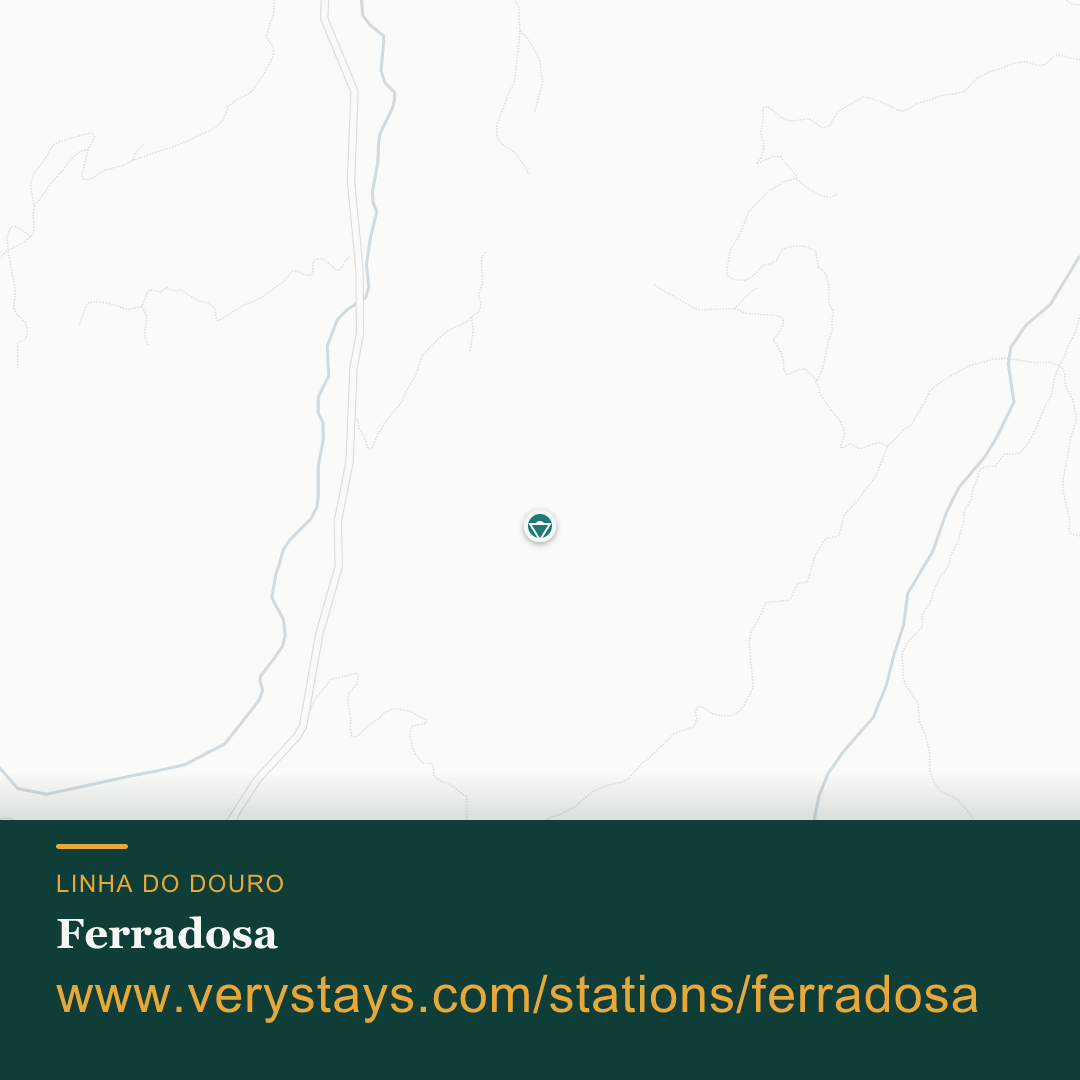
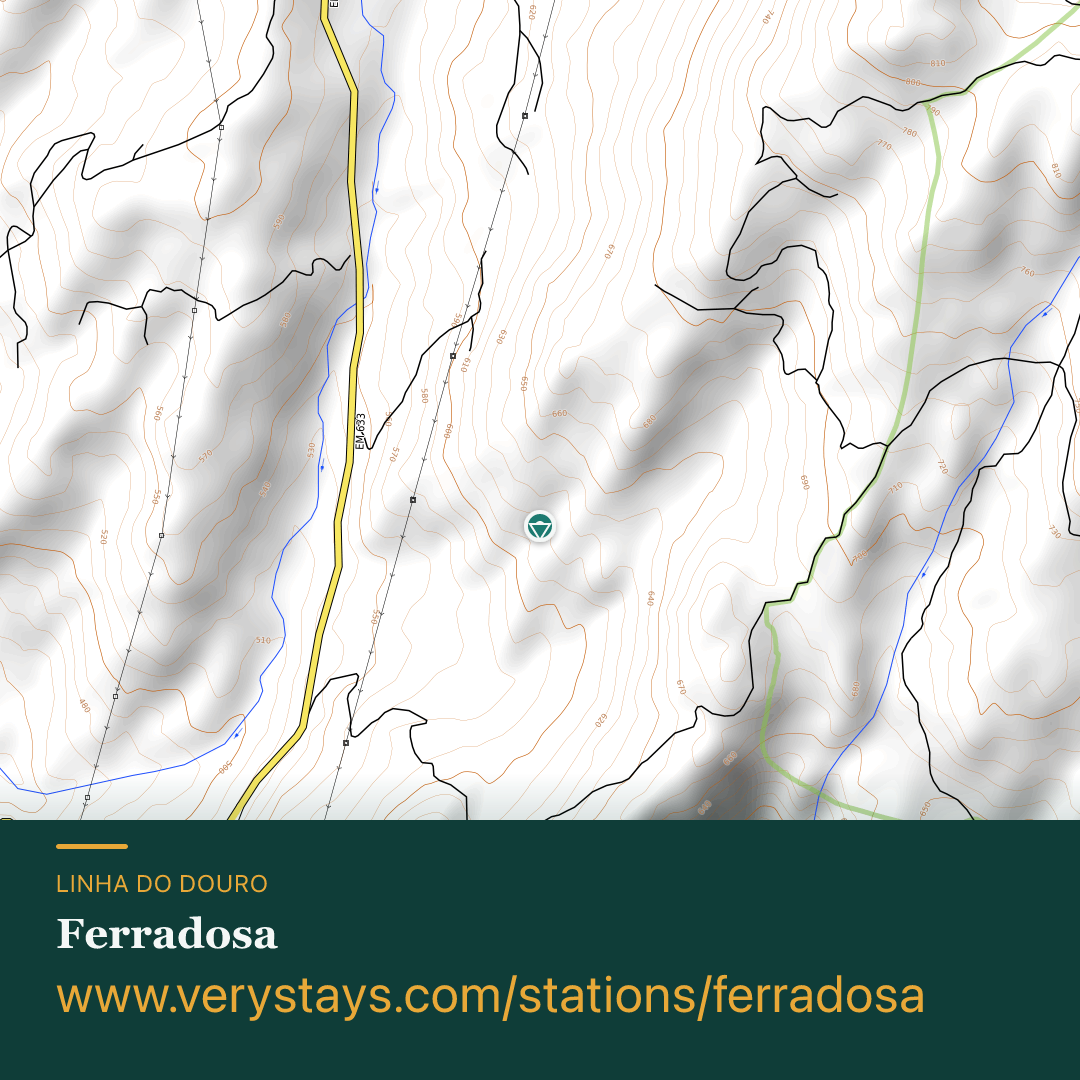
station images

diff --git a/src/data/stationImages.ts b/src/data/stationImages.ts
@@ -179,7 +179,7 @@ export const stationImages: Record<string, string> = {
   "Irivo": "https://images.pexels.com/photos/31797342/pexels-photo-31797342.jpeg?auto=compress&cs=tinysrgb&h=650&w=940",
   "ISMAI": "https://images.pexels.com/photos/29546156/pexels-photo-29546156.jpeg?auto=compress&cs=tinysrgb&h=650&w=940",
   "Jerez Airport (XRY)": "https://images.pexels.com/photos/13513107/pexels-photo-13513107.jpeg?auto=compress&cs=tinysrgb&h=650&w=940",
-  "Juncal": "https://images.pexels.com/photos/22047476/pexels-photo-22047476.jpeg?auto=compress&cs=tinysrgb&h=650&w=940",
+  "Juncal": "https://images.pexels.com/photos/26977308/pexels-photo-26977308.jpeg?auto=compress&cs=tinysrgb&h=650&w=940",
   "Lagos": "https://upload.wikimedia.org/wikipedia/commons/thumb/6/6a/2017-09-28_Forecourt_of_Lagos_railway_station_%282%29.JPG/960px-2017-09-28_Forecourt_of_Lagos_railway_station_%282%29.JPG",
   "Lamarosa": "https://upload.wikimedia.org/wikipedia/commons/thumb/b/ba/Flickr_-_nmorao_-_Esta%C3%A7%C3%A3o_da_Lamarosa%2C_2009.05.06.jpg/960px-Flickr_-_nmorao_-_Esta%C3%A7%C3%A3o_da_Lamarosa%2C_2009.05.06.jpg",
   "Lapa": "https://images.pexels.com/photos/3885725/pexels-photo-3885725.jpeg?auto=compress&cs=tinysrgb&h=650&w=940",